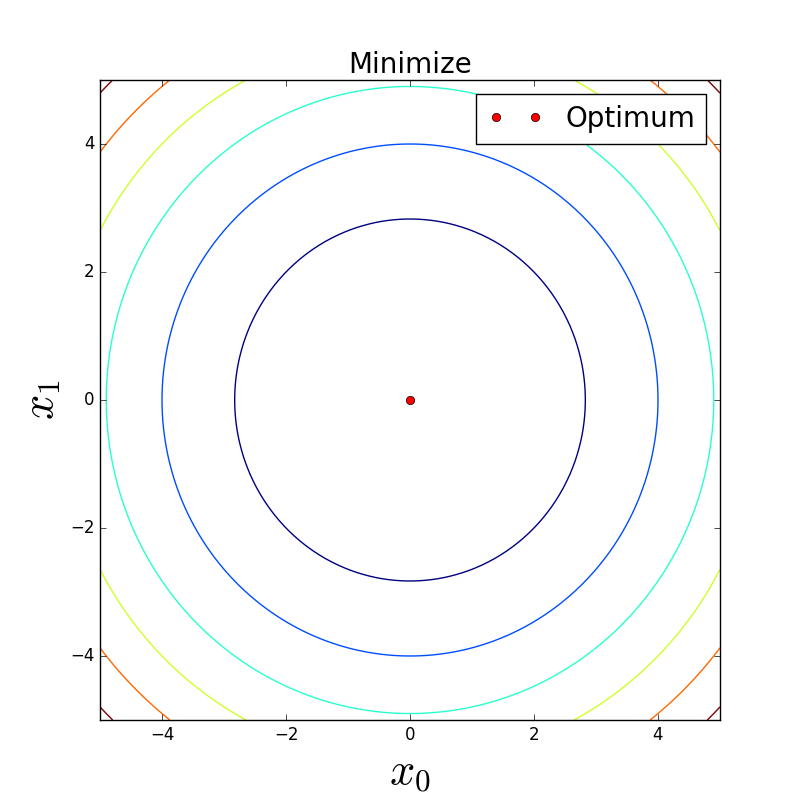
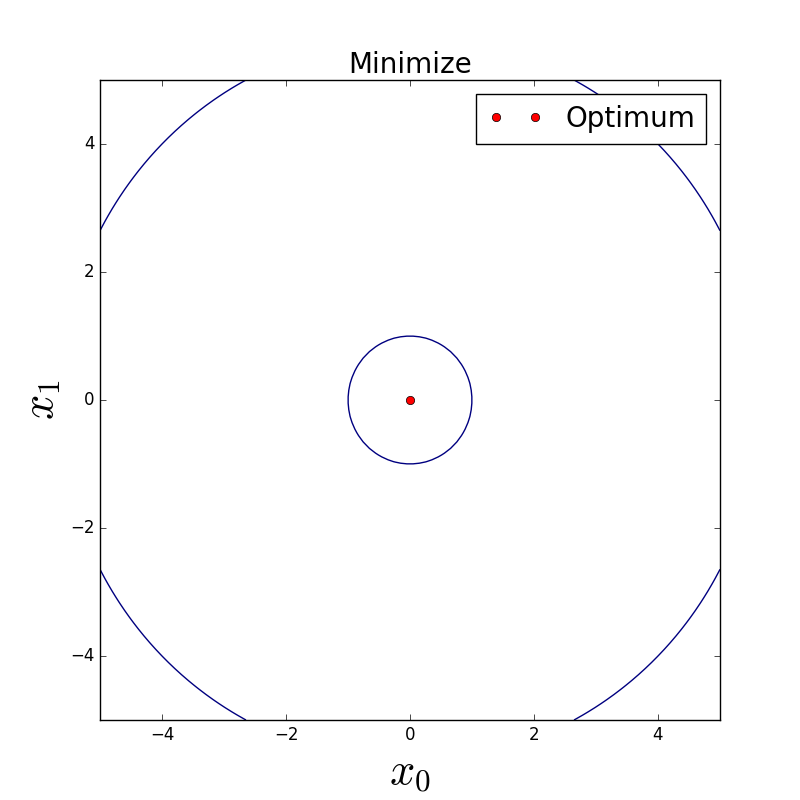
Add another objective function.

diff --git a/python/scipy/optimize/minimize_2d.py b/python/scipy/optimize/minimize_2d.py
@@ -18,7 +18,8 @@ import scipy.optimize as optimize
 # DEFINE THE OBJECTIVE FUNCTION ###############################################
 
 def f(x):
-    return np.power(x[0], 2.) + np.power(x[1], 2.)
+    #return np.power(x[0], 2.) + np.power(x[1], 2.)
+    return optimize.rosen(x)   # The Rosenbrock function
 
 
 # OPTIMIZE ####################################################################
@@ -50,7 +51,7 @@ Z = f(np.vstack([X.ravel(), Y.ravel()])).reshape((100,100))
 fig = plt.figure(figsize=(8.0, 8.0))
 ax = fig.add_subplot(111)
 
-ax.contour(X, Y, Z, label=r"Objective function $f$")
+ax.contour(X, Y, Z, np.arange(10)**5, label=r"Objective function $f$")
 ax.plot(result.x[0], result.x[1], "or", label=r"Optimum")
 
 # Set title and labels
